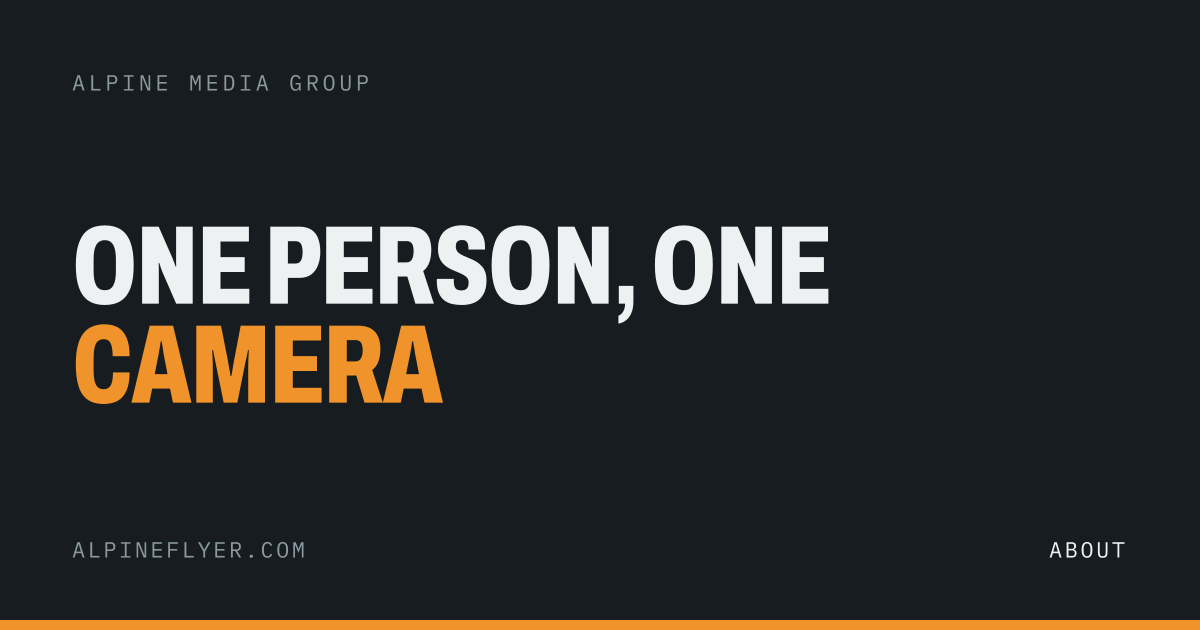
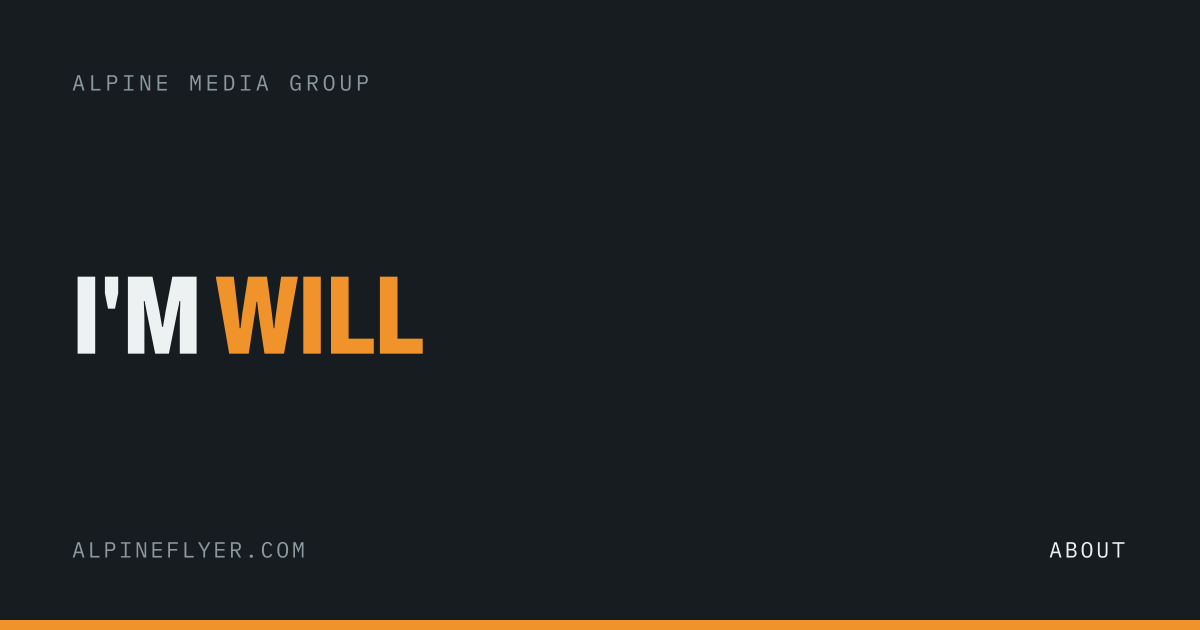
Rewrite the copy so it stops sounding written by a machine
The tells were consistent across pages, not confined to one:

- triple negation lists ("not a company, not a team, not an office", then
  "a production house, an agency, or a group with departments" in the very
  next paragraph)
- the same rhetorical move recycled — "which is the only reason anyone
  believes the ones that are" on partnerships, a near-copy of it on videos
- "what a place is like once you're standing in it" appearing verbatim on
  both the home page and about
- the quip landing ("an unhealthy number of boarding passes")
- explaining the website to the reader ("it isn't mirrored here")
- every paragraph the same length and the same shape

Rewritten across home, videos, instagram, partnerships and about: shorter,
uneven sentence lengths, concrete detail instead of parallel structure, and
the about headline changed from "One person, one camera" — which was the same
doubling trick, and which the paragraph below it already said.

Changed region(s): [[0.0617, 0.3317, 0.7092, 0.6635]]

diff --git a/docs/about/index.html b/docs/about/index.html
@@ -53,33 +53,24 @@
 
 <div class="wrap">
   <div class="page-head">
-    <h1 class="d d-xl">ONE PERSON, ONE <b class="kw">CAMERA</b></h1>
+    <h1 class="d d-xl">I&#39;M <b class="kw">WILL</b></h1>
   </div>
 
   <section class="prose">
     <p class="lede" style="max-width:52ch">
-      I'm Will. I'm based in England, I fly more than is sensible, and I film most of it.
+      I'm Will. I live in England and I spend most of my spare money on train tickets.
     </p>
     <p>
-      <a href="/videos/">Alpine Flyer</a> is the YouTube channel. It started as flight sim and
-      aircraft explainers and it's turning into a travel channel — airlines I've actually flown,
-      hotels I've actually stayed in, and what a place is like once you're standing in it.
+      <a href="/videos/">Alpine Flyer</a> is the YouTube channel. It began as flight sim. Now it's
+      mostly real trips: the flight, the route, the hotel, and whether any of it was worth doing.
     </p>
     <p>
-      I also run <a href="/instagram/">the Visit Europe Project</a> on
-      Instagram: short travel video working through the countries of Europe, one at a time. That
-      one lives entirely on Instagram — it isn't mirrored here, and the account is the place to
-      follow it.
+      <a href="/instagram/">The Visit Europe Project</a> is my Instagram. Short travel video,
+      working through the countries of Europe one at a time.
     </p>
     <p>
-      Alpine Media Group is the name over both of them. It's a studio name, the way a photographer
-      has one — not a company, not a team, not an office. It's me, a camera, a laptop and an
-      unhealthy number of boarding passes. If you email it, I'm the one who reads it.
-    </p>
-    <p>
-      What it isn't: a production house, an agency, or a group with departments. There is nobody
-      else here. That's usually the reason people get in touch, and it's the reason things take as
-      long as they take.
+      Alpine Media Group is just the name I put over both. There's nobody else here, so when you
+      email it, you get me, usually within a day or two.
     </p>
   </section>
 

diff --git a/docs/instagram/index.html b/docs/instagram/index.html
@@ -66,30 +66,27 @@
   <section class="prose">
     <h2 class="d d-m">What it is</h2>
     <p style="margin-top:.7rem">
-      A running project covering every country in Europe — short video and carousels, one place at
-      a time. The brief has always been the same: skip the queue at the obvious sight and go twenty
-      minutes down the road to the thing nobody photographs.
+      Short video and carousels, one place at a time, working towards every country in Europe. The
+      brief hasn't changed: skip the queue at the famous thing and drive twenty minutes to the one
+      nobody photographs.
     </p>
     <p>
-      People tag the account, and the good ones get reposted with credit on them. That's how a lot
-      of it has been made so far.
+      People tag the account. The good ones get reposted, credited.
     </p>
   </section>
 
   <section class="prose">
     <h2 class="d d-m">From edits to documenting it myself</h2>
     <p style="margin-top:.7rem">
-      Up to now it's mostly been editing — other people's footage, cut and captioned, credit on the
-      post. It worked, and it's how the account found an audience.
+      So far it's mostly been editing. Other people's footage, cut and captioned, credited on the
+      post. That's how the account found an audience and I'm not embarrassed by it.
     </p>
     <p>
-      The goal now is to stop editing other people's trips and start documenting my own. Same
-      countries, same brief, but shot on the ground: me in the place, with a camera, saying what
-      it's actually like to get there. Slower, fewer posts, worth more.
+      What I want now is to shoot it myself. Same countries, same brief, but me actually in the
+      place with a camera. That means fewer posts. I think they'll be better ones.
     </p>
     <p>
-      That's the same direction the <a href="/videos/">YouTube channel</a> is going, which is the
-      point — one person travelling and filming it, rather than two accounts doing different jobs.
+      The <a href="/videos/">YouTube channel</a> is heading the same way.
     </p>
   </section>
 

diff --git a/docs/videos/index.html b/docs/videos/index.html
@@ -77,14 +77,12 @@
     </div>
     <div class="prose" style="margin-top:1.5rem">
   <p>
-    That's the one that says most about how I work. I booked it myself, flew it as a normal
-    passenger and said what it was actually like — which is the only version worth anyone's
-    fifteen minutes.
+    I paid for that ticket and sat in it like anyone else. The review covers the bits an airline
+    would leave out of an advert.
   </p>
   <p>
-    I'm Will. I'm based in England and I'm working my way across Europe one country at a time —
-    trains where I can, flights where I can't, filming it as I go. There's a back catalogue of
-    flight sim below and there'll be less of it from here on.
+    I'm Will, from England. The channel is turning into a travel channel. The flight sim back
+    catalogue is still down the page; there'll be less of it from here.
   </p>
 </div>
   </section><section class="vid-group" aria-labelledby="s-flight-sim">

diff --git a/docs/index.html b/docs/index.html
@@ -57,11 +57,11 @@
     <h1 class="d d-xl">I&#39;M TRAVELLING EUROPE, ONE <b class="kw">COUNTRY</b> AT A TIME</h1>
     <div class="mast-copy">
       <p>
-        I'm Will, based in England. I'm working my way across Europe — overland where I can,
-        flying where I can't — and filming it as I go. London to Helsinki by train, airline reviews
-        from the seat, and what a place is actually like once you're standing in it.
+        I'm Will. I live in England and I'm working my way across Europe with a camera.
+        Trains where they make sense, flights where they don't. The last run was London to Helsinki
+        without leaving the ground.
       </p>
-      <p>It all ends up on the channel. Newest first, below.</p>
+      <p>Everything I've put out is below, newest first.</p>
     </div>
   </div>
 

diff --git a/docs/partnerships/index.html b/docs/partnerships/index.html
@@ -89,9 +89,8 @@
 
   <section class="prose">
     <p>
-      One person, so one project at a time, and I say no to things I can't do properly. I go, I
-      film it, and I say what it was actually like — if it isn't good I'll say so, which is the
-      only reason anyone believes the ones that are.
+      It's one person, so it's one project at a time. I'll say if something was good. I'll also say
+      if it wasn't, and you'd want it that way, because the alternative convinces nobody.
     </p>
     <p class="m">Paid work is disclosed on the video and in the caption, every time, without being asked.</p>
   </section>
